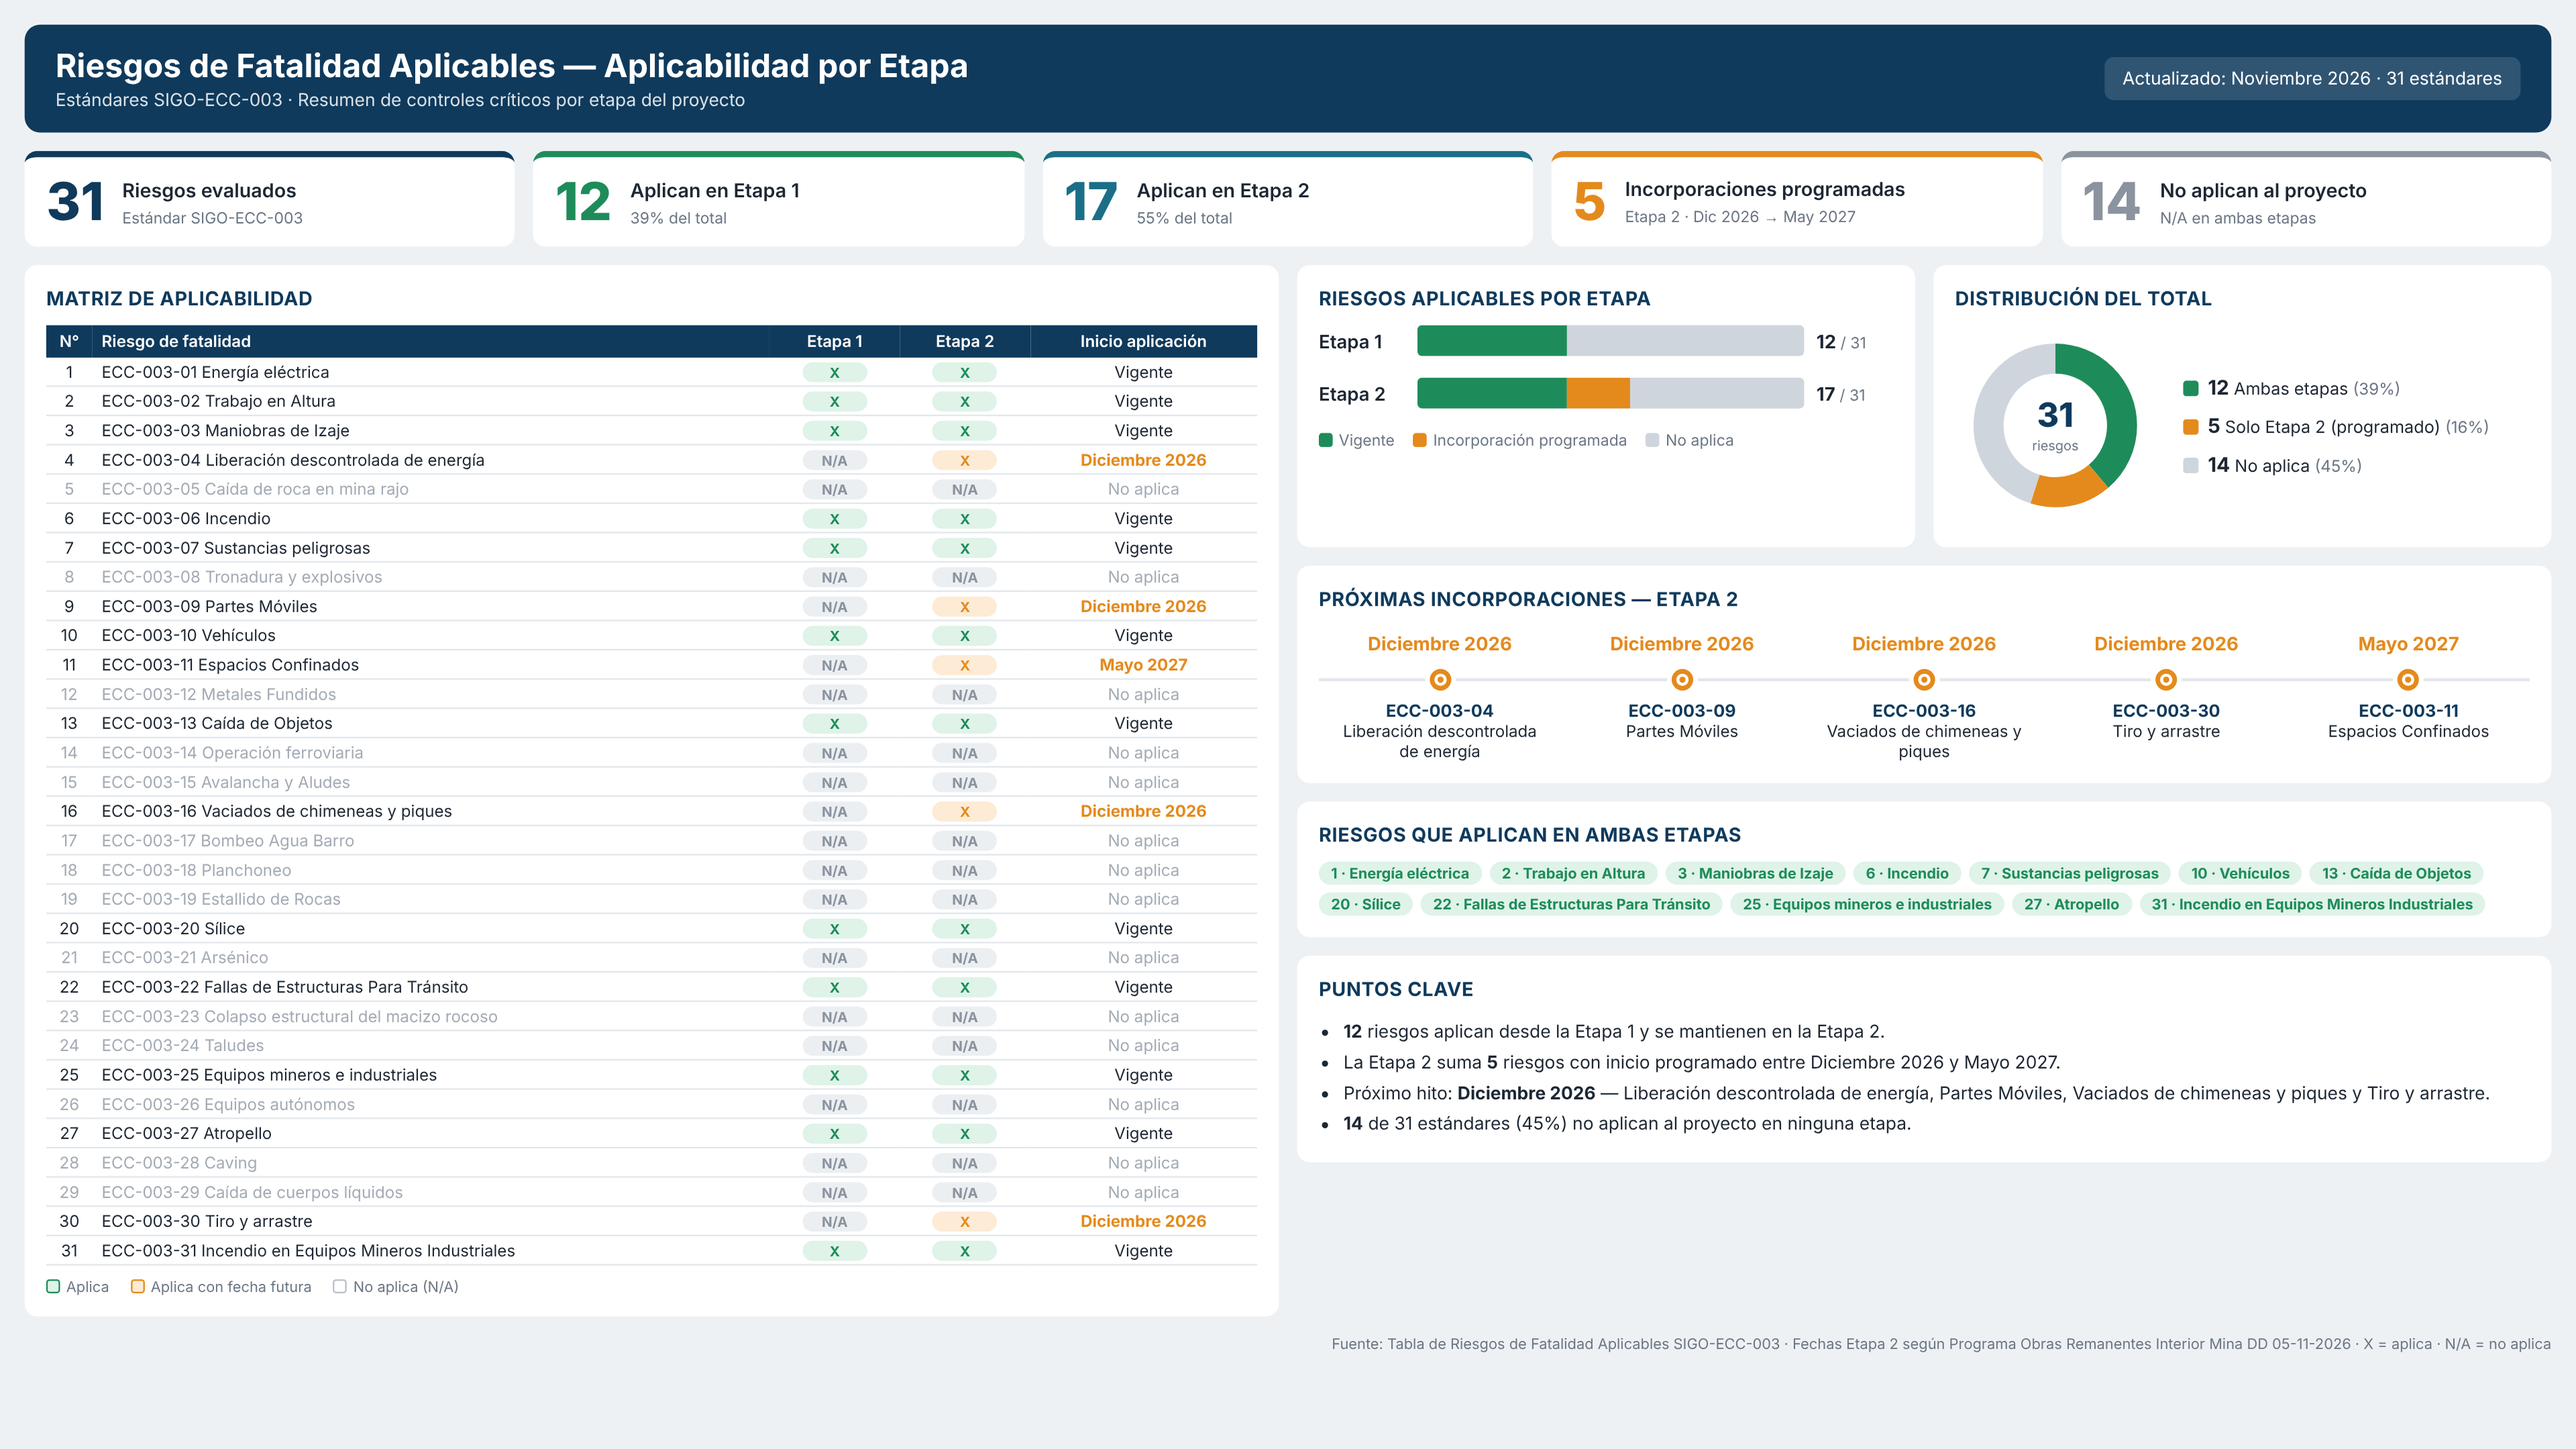
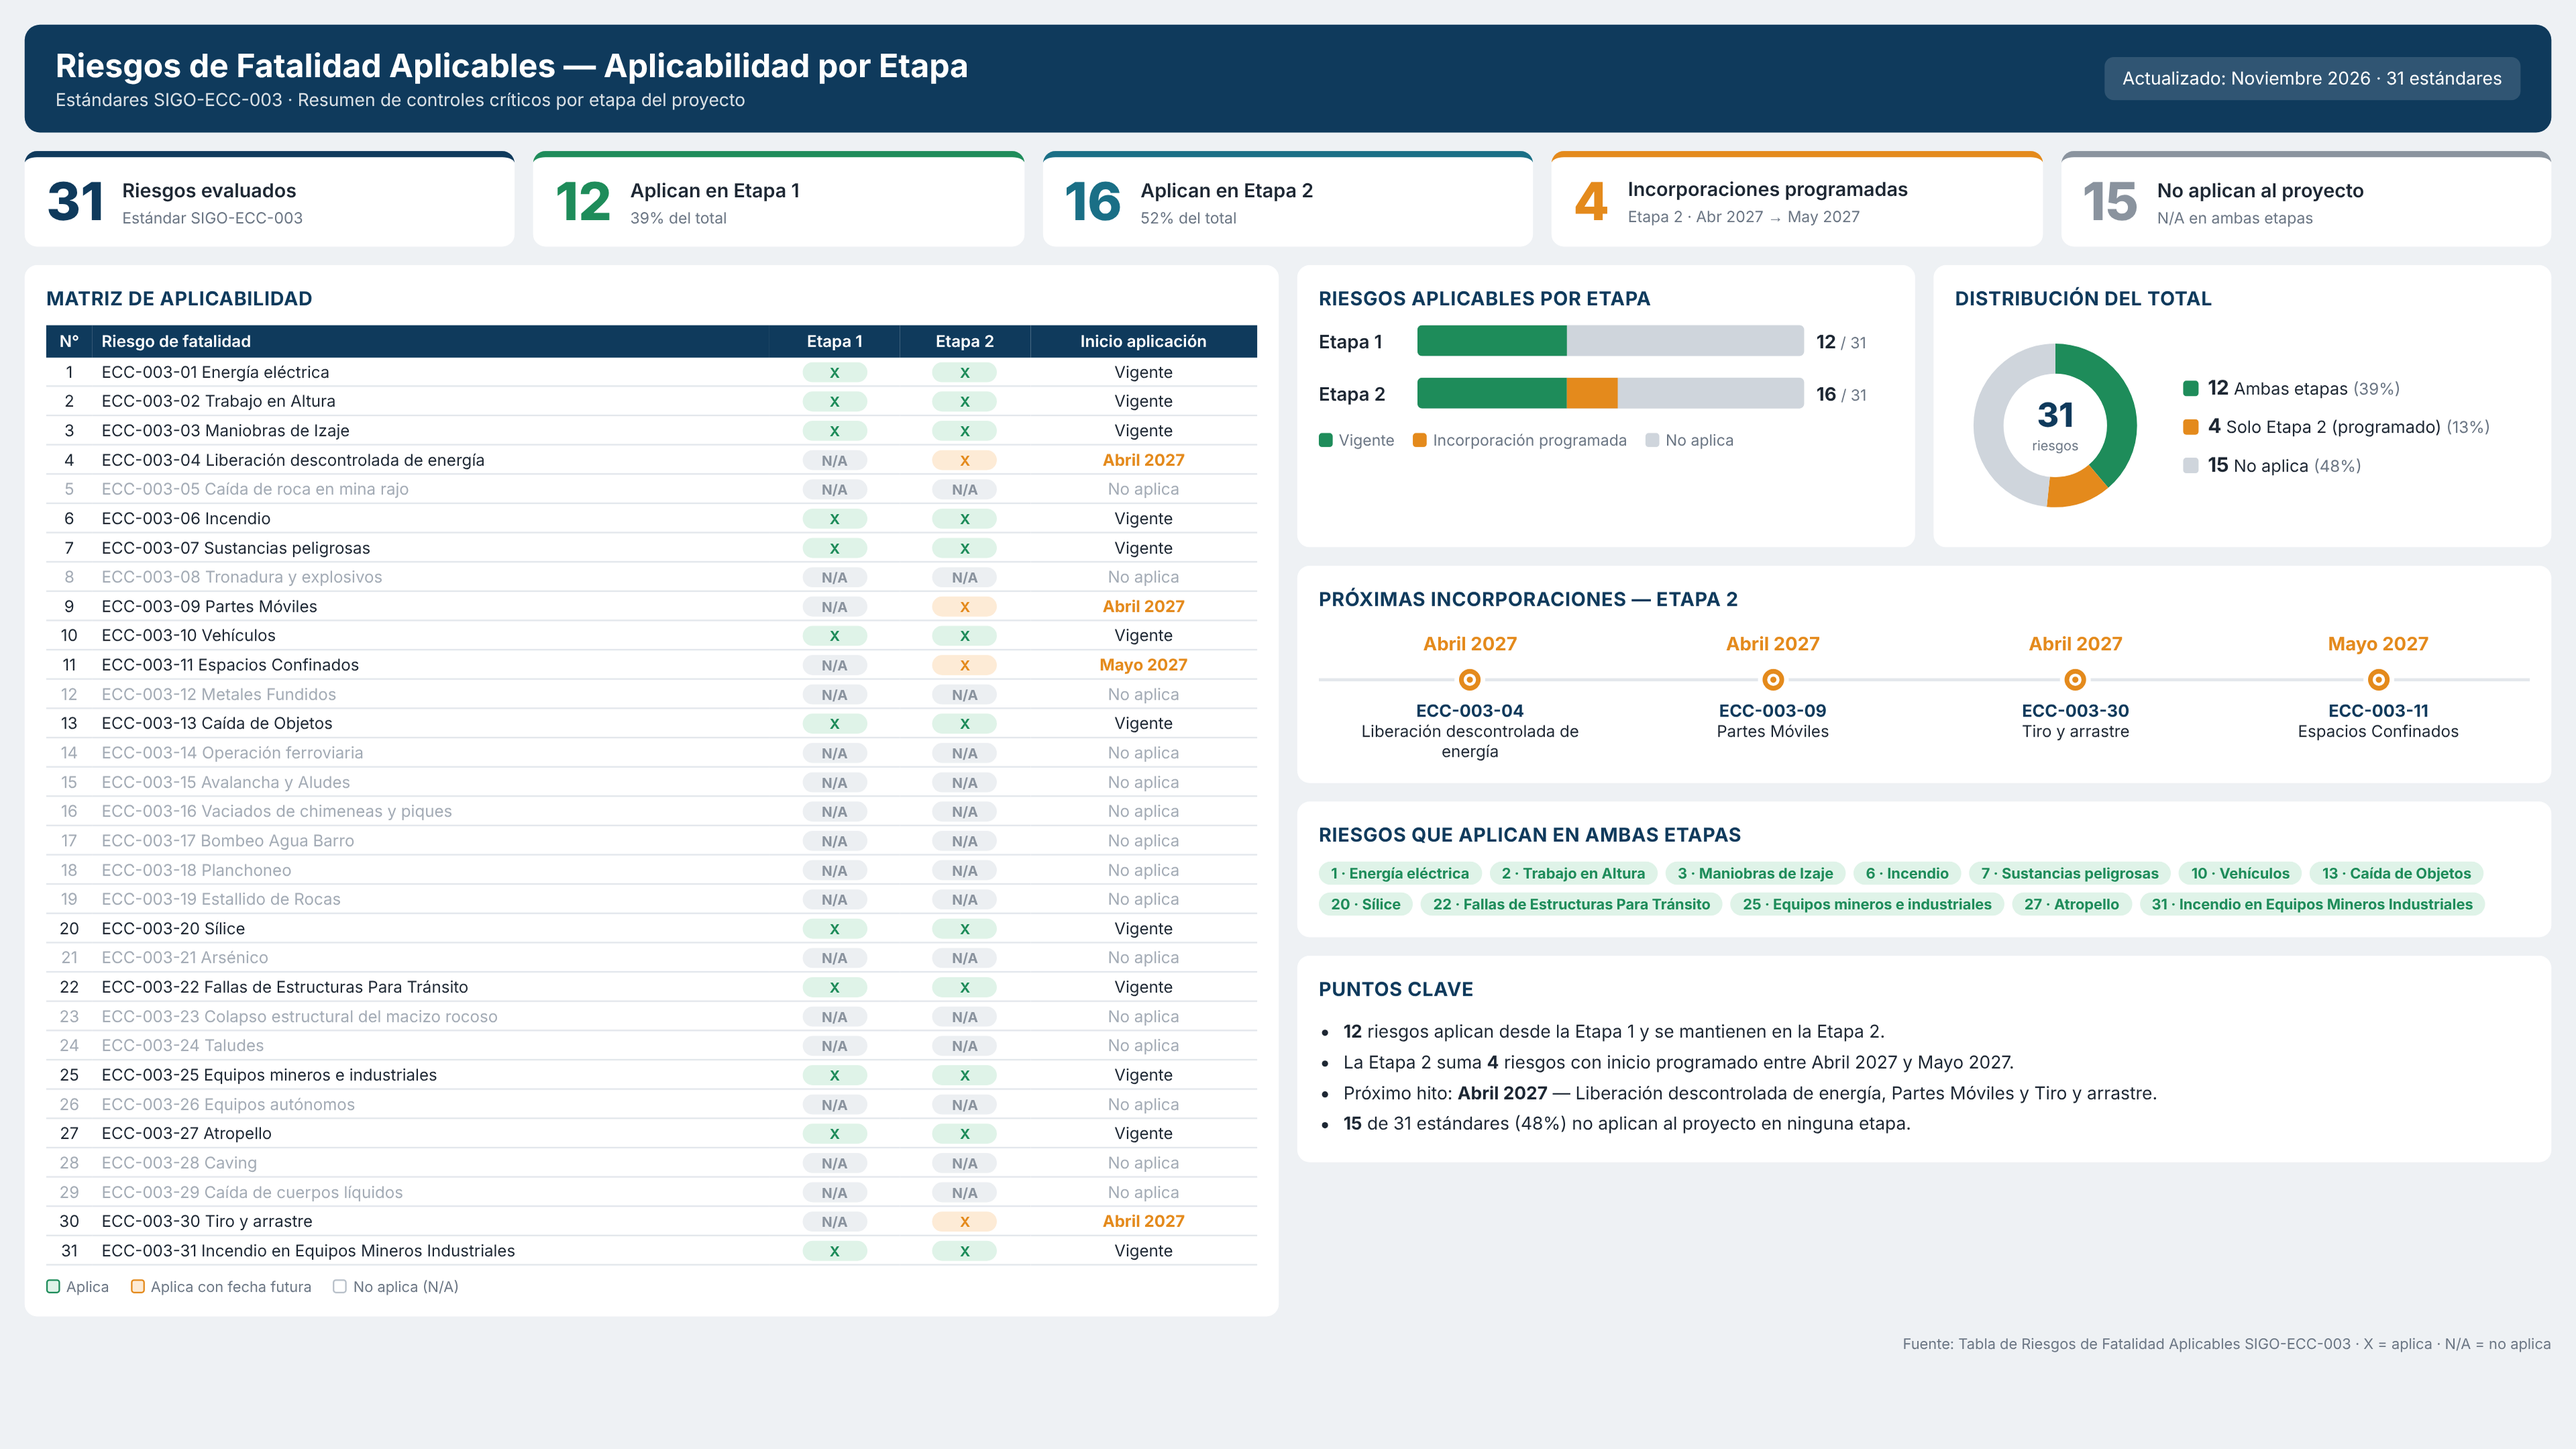
Restaurar cuadro de aplicabilidad con sus fechas originales
Claude-Session: https://claude.ai/code/session_01R7SUHWrVXsce4pGmmGYyHg

diff --git a/riesgos-fatalidad-aplicabilidad.html b/riesgos-fatalidad-aplicabilidad.html
@@ -55,7 +55,7 @@
   .dl{font-size:11px;display:flex;flex-direction:column;gap:9px}
   .dl b{font-size:13px}.dl i{display:inline-block;width:10px;height:10px;border-radius:2px;margin-right:6px;vertical-align:-1px}.dl small{color:var(--muted);font-size:10.5px}
 
-  .tl{position:relative;display:grid;grid-template-columns:repeat(var(--n,4),1fr);text-align:center;padding-top:4px}
+  .tl{position:relative;display:grid;grid-template-columns:repeat(4,1fr);text-align:center;padding-top:4px}
   .tl:before{content:"";position:absolute;left:0;right:0;top:34px;height:2px;background:var(--line)}
   .tl .d{font-size:12px;font-weight:700;color:var(--orange);height:22px}
   .tl .dot{width:14px;height:14px;border-radius:50%;border:3px solid var(--orange);background:#fff;margin:2px auto 6px;position:relative;box-shadow:0 0 0 3px #fff}
@@ -123,26 +123,26 @@
       </section>
     </div>
   </div>
-  <div class="src">Fuente: Tabla de Riesgos de Fatalidad Aplicables SIGO-ECC-003 · Fechas Etapa 2 según Programa Obras Remanentes Interior Mina DD 05-11-2026 · X = aplica · N/A = no aplica</div>
+  <div class="src">Fuente: Tabla de Riesgos de Fatalidad Aplicables SIGO-ECC-003 · X = aplica · N/A = no aplica</div>
 </div>
 
 <script>
 // e1/e2: true = aplica. inicio: null = Vigente (si aplica) / No aplica; texto = fecha futura de incorporación en Etapa 2
 const R = [
   [1,'Energía eléctrica',1,1],[2,'Trabajo en Altura',1,1],[3,'Maniobras de Izaje',1,1],
-  [4,'Liberación descontrolada de energía',0,1,'Diciembre 2026'],
+  [4,'Liberación descontrolada de energía',0,1,'Abril 2027'],
   [5,'Caída de roca en mina rajo',0,0],[6,'Incendio',1,1],[7,'Sustancias peligrosas',1,1],
   [8,'Tronadura y explosivos',0,0],
-  [9,'Partes Móviles',0,1,'Diciembre 2026'],
+  [9,'Partes Móviles',0,1,'Abril 2027'],
   [10,'Vehículos',1,1],
   [11,'Espacios Confinados',0,1,'Mayo 2027'],
   [12,'Metales Fundidos',0,0],[13,'Caída de Objetos',1,1],[14,'Operación ferroviaria',0,0],
-  [15,'Avalancha y Aludes',0,0],[16,'Vaciados de chimeneas y piques',0,1,'Diciembre 2026'],[17,'Bombeo Agua Barro',0,0],
+  [15,'Avalancha y Aludes',0,0],[16,'Vaciados de chimeneas y piques',0,0],[17,'Bombeo Agua Barro',0,0],
   [18,'Planchoneo',0,0],[19,'Estallido de Rocas',0,0],[20,'Sílice',1,1],[21,'Arsénico',0,0],
   [22,'Fallas de Estructuras Para Tránsito',1,1],[23,'Colapso estructural del macizo rocoso',0,0],
   [24,'Taludes',0,0],[25,'Equipos mineros e industriales',1,1],[26,'Equipos autónomos',0,0],
   [27,'Atropello',1,1],[28,'Caving',0,0],[29,'Caída de cuerpos líquidos',0,0],
-  [30,'Tiro y arrastre',0,1,'Diciembre 2026'],
+  [30,'Tiro y arrastre',0,1,'Abril 2027'],
   [31,'Incendio en Equipos Mineros Industriales',1,1]
 ].map(([n,name,e1,e2,inicio])=>({n,name,e1:!!e1,e2:!!e2,inicio,code:'ECC-003-'+String(n).padStart(2,'0')}));
 
@@ -185,7 +185,6 @@ document.getElementById('donut').innerHTML=`<svg viewBox="0 0 120 120">${arcs}<t
 <div class="dl">${segs.map(([v,c,l])=>`<div><i style="background:${c}"></i><b>${v}</b> ${l} <small>(${pct(v)}%)</small></div>`).join('')}</div>`;
 
 // Línea de tiempo
-document.getElementById('tl').style.setProperty('--n',fut.length);
 document.getElementById('tl').innerHTML=fut.map(r=>`<div><div class="d">${r.inicio}</div><div class="dot"></div><div class="code">${r.code}</div><div class="n">${r.name}</div></div>`).join('');
 
 // Chips
